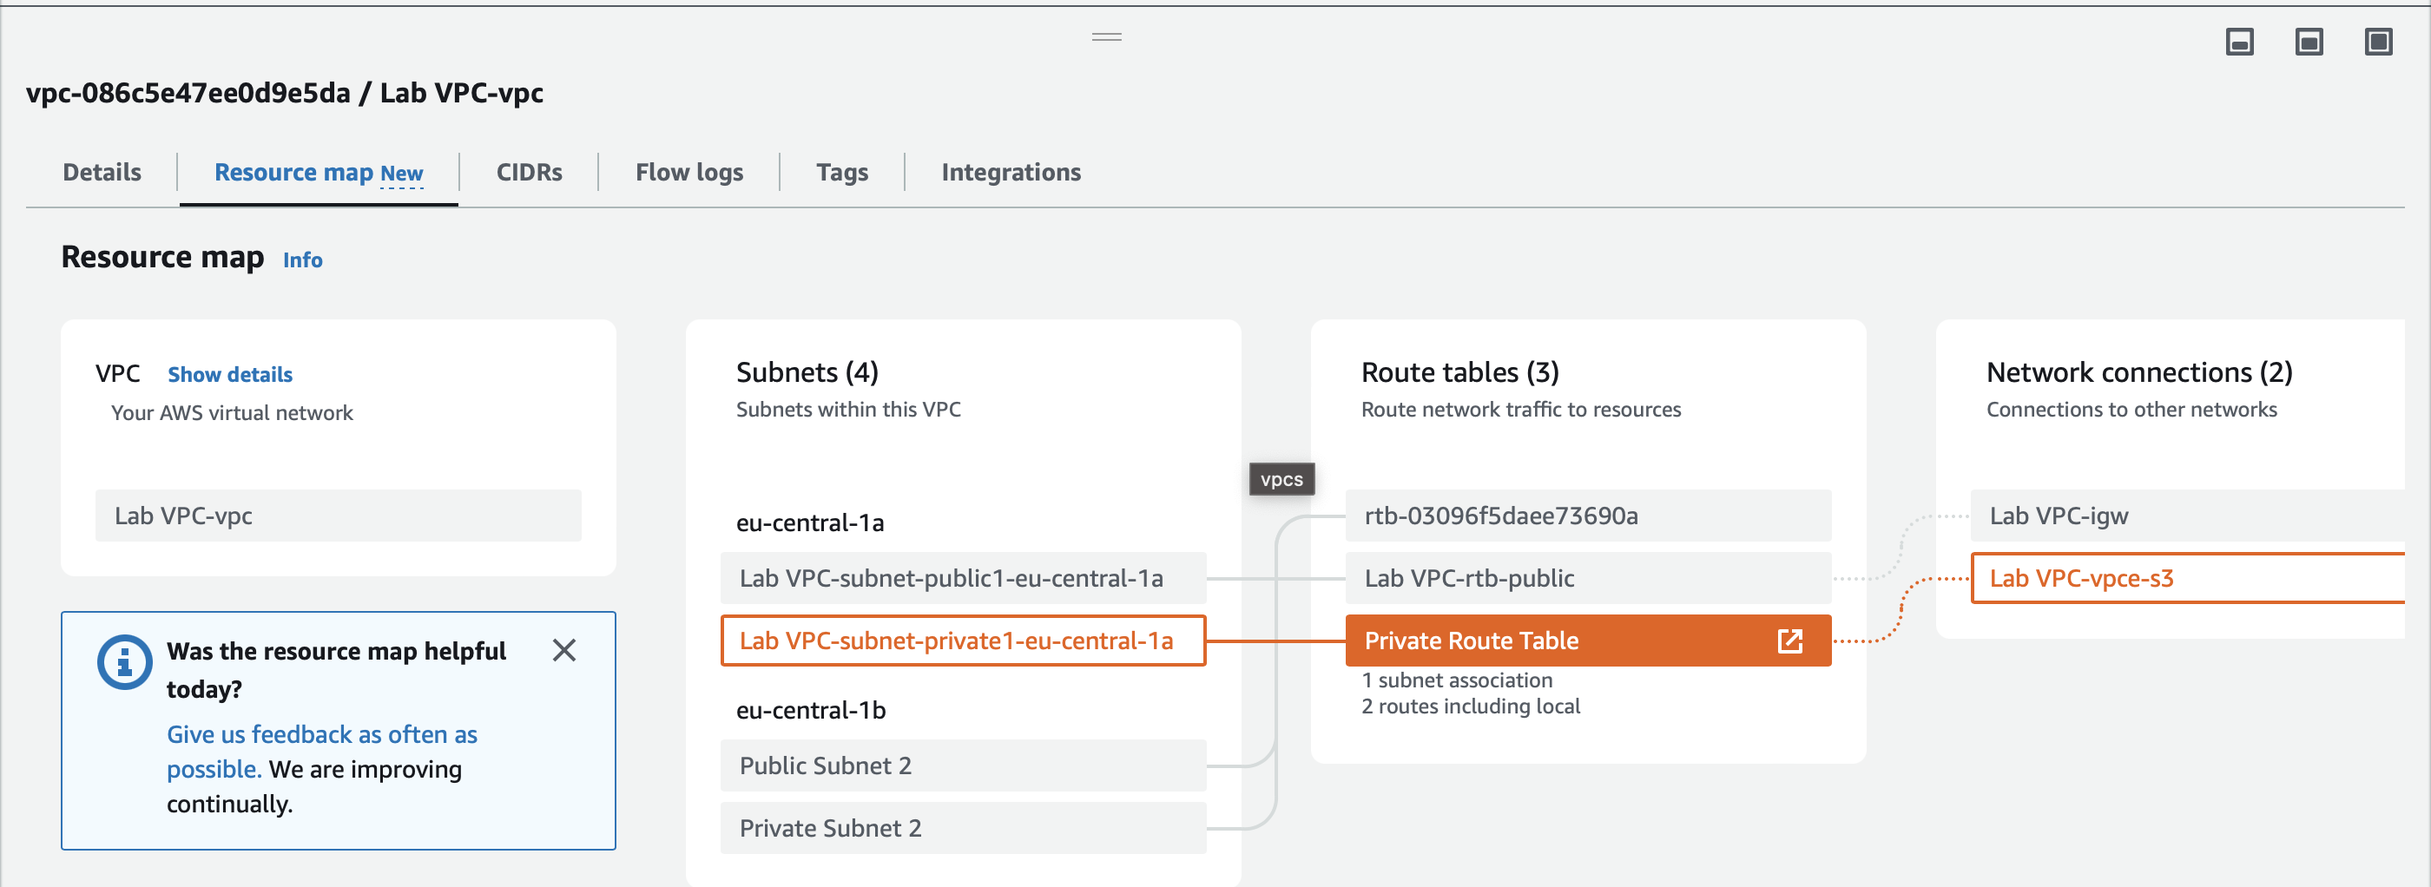
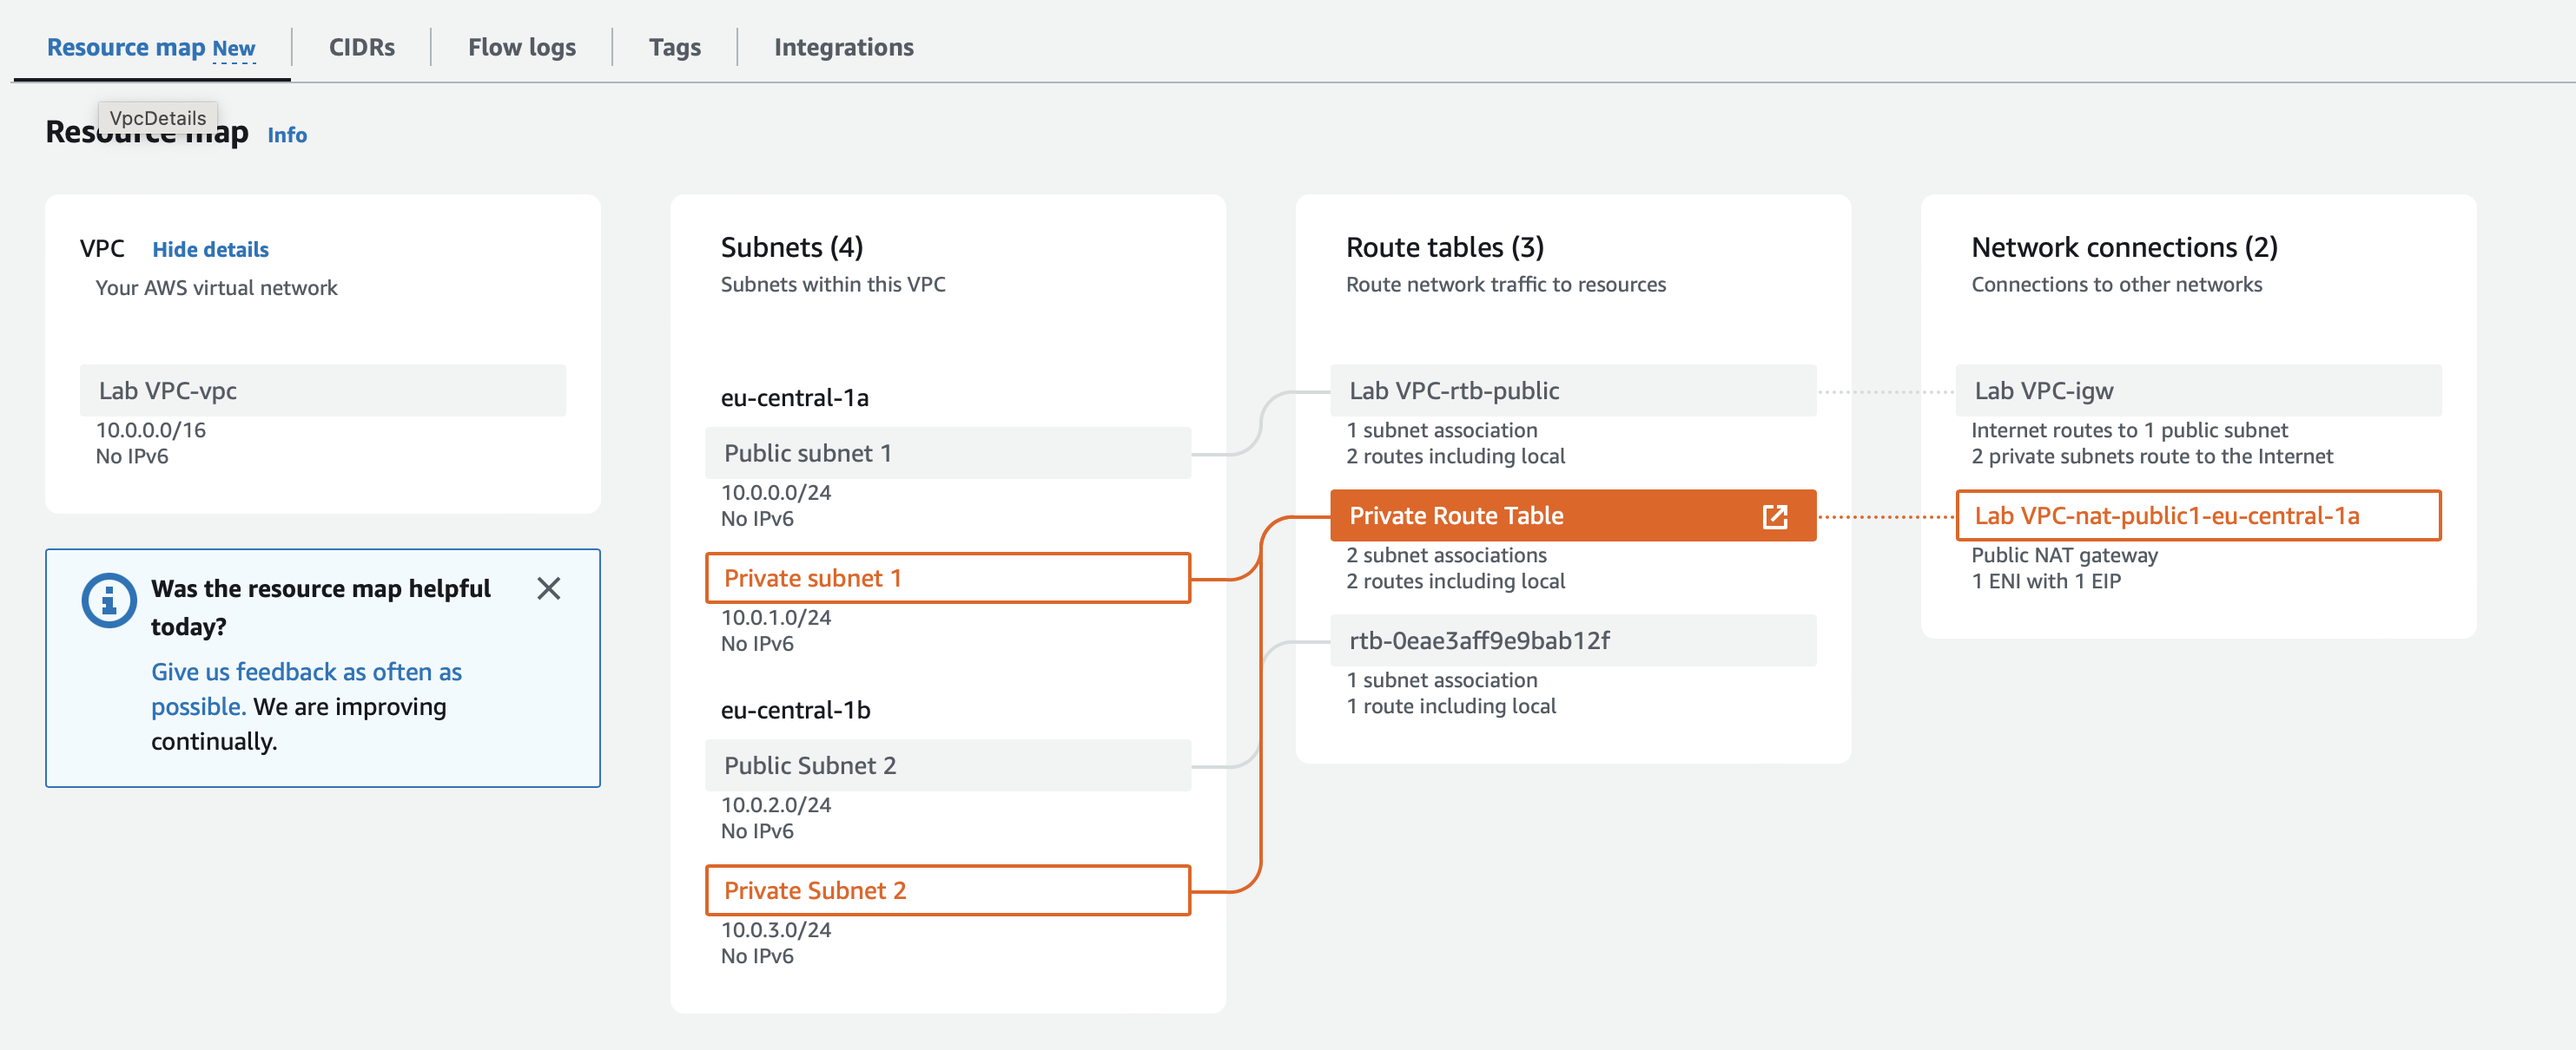
finish VPC

diff --git a/04_AWS_1 /W4_10_VPC.md b/04_AWS_1 /W4_10_VPC.md
@@ -1,5 +1,6 @@
-# [Onderwerp]
-[Geef een korte beschrijving van het onderwerp]
+# VPC
+
+4 exercises!
 
 ## Key-terms
 
@@ -25,7 +26,7 @@ IgW allows both inbound and outbound access to the internet whereas the NAT Gate
 
 
 ### Ervaren problemen
-[Geef een korte beschrijving van de problemen waar je tegenaan bent gelopen met je gevonden oplossing.]
+During the first attempt i tried to create and add a NAT gateway afterwards. The next day, with my second attempt everything went much more smoothly.
 
 ### Resultaat
 
@@ -37,37 +38,36 @@ Exercies 1:
 
 
 
-- create a new VPC:
+- Create a new VPC:
 
-![Alt text](<images/Create a new VPC.png>)
+![Alt text](<images/Lab VPC.png>)
 
 Exercise 2:
-
-- Create an additional public subnet & Create an additional private subnet:
- 
-![Private & Public subnets](<images/private & public subnets created .png>)
 
 
 - View the main route table for Lab VPC. It should have an entry for the NAT gateway. Rename this route table to Private Route Table.
 
 <br>
 
-Rename this route table to Private Route Table:
+* Rename this route table to Private Route Table & explicitly associate the private route table with your two private subnets.
+
+Private Route Table:
 
 ![Alt text](<images/Private Route Table.png>)
 
-I had to add the NAT gateway afterwords:
-
-![Alt text](<images/Nat Gateway added.png>)
-
-
-- Explicitly associate the private route table with your two private subnets.
-
-
-![Alt text](<images/2 private subnets explicitly associated.png>)
 
 - View the other route table for Lab VPC. It should have an entry for the internet gateway. Rename this route table to Public Route Table.
 - Explicitly associate the public route table to your two public subnets:
 
+Public Route Table:
 
 ![Alt text](<images/Public Route Table.png>)
+
+
+Exercise 3, Inbound & Outbound rule:
+
+![Alt text](<images/Inbound & Outbound rules.png>)
+
+Exercise 4, final result:
+
+![Alt text](<images/Exercise 4 Test Page.png>)

diff --git a/04_AWS_1 /W4_06_EC2.md b/04_AWS_1 /W4_06_EC2.md
@@ -1,6 +1,8 @@
 
 # EC2
 
+
+Amazon Elastic Compute Cloud (Amazon EC2) is a web service that provides secure, resizable compute capacity in the cloud. It is designed to make web-scale cloud computing easier for developers.
 Launch an instance:
 
 • Navigate to the EC2 menu.
